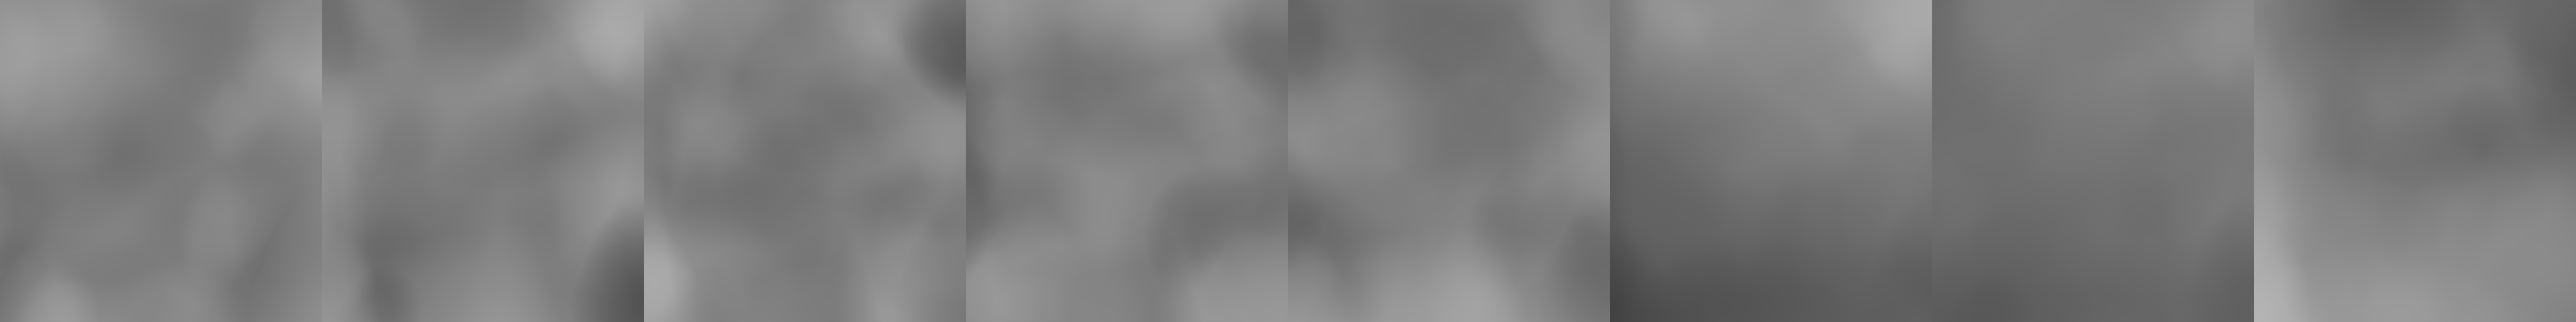
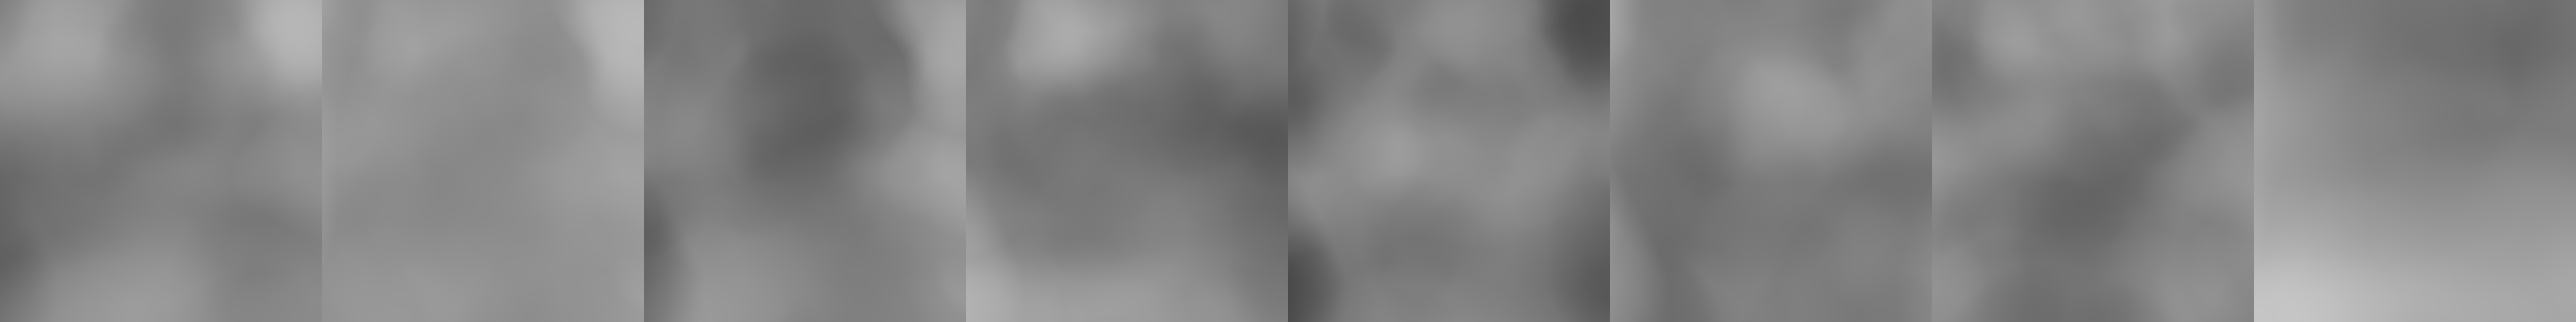
Change mpi datset for mobile viewer.

diff --git a/mpi/tiger-front/mobile/config.js b/mpi/tiger-front/mobile/config.js
@@ -1,23 +1,23 @@
 
-  const w = 640;
-  const h = 480;
-  const scale = 1;
+  const w = 504;
+  const h = 378;
+  const scale = 0.5;
   const nSubPlanes = 1;
-  const layers = 12;
-  const sublayers = 6;
+  const layers = 10;
+  const sublayers = 5;
 
-  const planes = [[1.3333333730697632,1.3939604456995573,1.4545875183293517,1.515214590959146,1.5758416635889403,1.6364687362187345,1.6970958088485288,1.757722881478323,1.8183499541081174,1.8789770267379116,1.9396040993677057,2.0002311719975,2.0608582446272945,2.121485317257089,2.182112389886883,2.242739462516677,2.3033665351464716,2.3639936077762655,2.42462068040606,2.4852477530358543,2.5458748256656483,2.606501898295443,2.667128970925237,2.7277560435550314,2.788383116184826,2.8490101888146198,2.909637261444414,2.9702643340742085,3.0308914067040025,3.0915184793337973,3.1521455519635913,3.2127726245933856,3.27339969722318,3.334026769852974,3.3946538424827684,3.4552809151125627,3.5159079877423567,3.576535060372151,3.6371621330019455,3.69778920563174,3.758416278261534,3.819043350891328,3.8796704235211226,3.940297496150917,4.000924568780711,4.061551641410505,4.1221787140403,4.1828057866700945,4.2434328592998884,4.304059931929682,4.364687004559476,4.42531407718927,4.485941149819065,4.54656822244886,4.607195295078654,4.667822367708448,4.728449440338242,4.789076512968037,4.849703585597831,4.910330658227625,4.970957730857419,5.031584803487213,5.092211876117008,5.152838948746802,5.213466021376597,5.274093094006391,5.334720166636185,5.39534723926598,5.4559743118957735,5.5166013845255675,5.577228457155362,5.637855529785156]];
+  const planes = [[1.3333333730697632,1.4211807640231386,1.5090281549765139,1.5968755459298893,1.6847229368832646,1.77257032783664,1.8604177187900155,1.9482651097433907,2.036112500696766,2.1239598916501414,2.211807282603517,2.2996546735568923,2.387502064510268,2.475349455463643,2.5631968464170183,2.6510442373703933,2.7388916283237688,2.826739019277144,2.9145864102305197,3.002433801183895,3.0902811921372706,3.178128583090646,3.265975974044021,3.3538233649973965,3.441670755950772,3.5295181469041474,3.6173655378575225,3.705212928810898,3.7930603197642734,3.880907710717649,3.968755101671024,4.0566024926244,4.144449883577774,4.232297274531151,4.320144665484525,4.407992056437901,4.495839447391276,4.583686838344652,4.671534229298027,4.759381620251402,4.847229011204778,4.935076402158153,5.022923793111529,5.1107711840649035,5.198618575018279,5.286465965971654,5.37431335692503,5.462160747878405,5.550008138831781,5.637855529785156]];
 
-  const f = 394.7192402385091 * scale;
+  const f = 621.6828033756518 * scale;
   var names = [""];
   var nMpis = names.length;
 
-  const py = 239.5027526544751 * scale;
-  const px = 334.78532562016807 * scale;
+  const py = 377.5043354307983 * scale;
+  const px = 527.5743878517646 * scale;
   const invz = false;
 
-  const offset = 200;
-  const maxcol = 15;
+  const offset = 100;
+  const maxcol = 11;
   const version = "learned_basis8";
   const extrinsics = [[0.9997125864028931,0.011174699291586876,0.021207239478826523,0.0,-0.01122159045189619,0.9999347925186157,0.002093249000608921,0.0,-0.02118246629834175,-0.002330626593902707,0.9997729063034058,0.0,-0.20847119390964508,0.08096588402986526,0.018859874457120895,1.0]];
 
